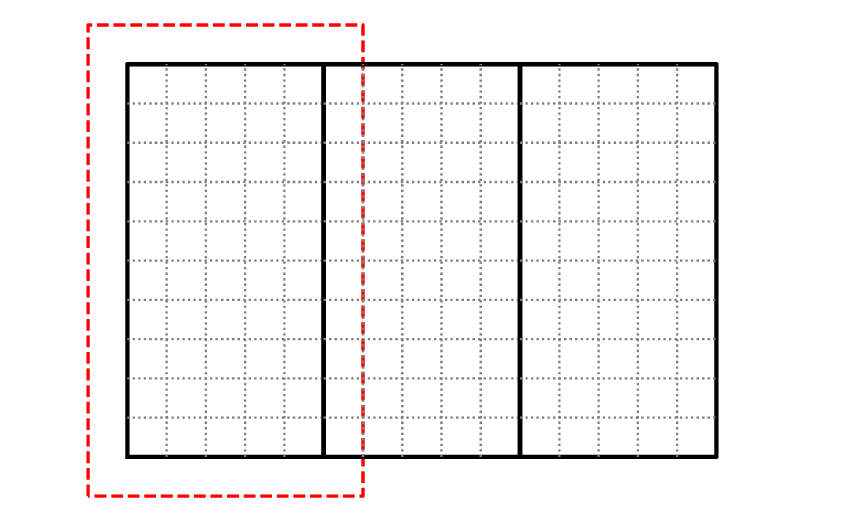
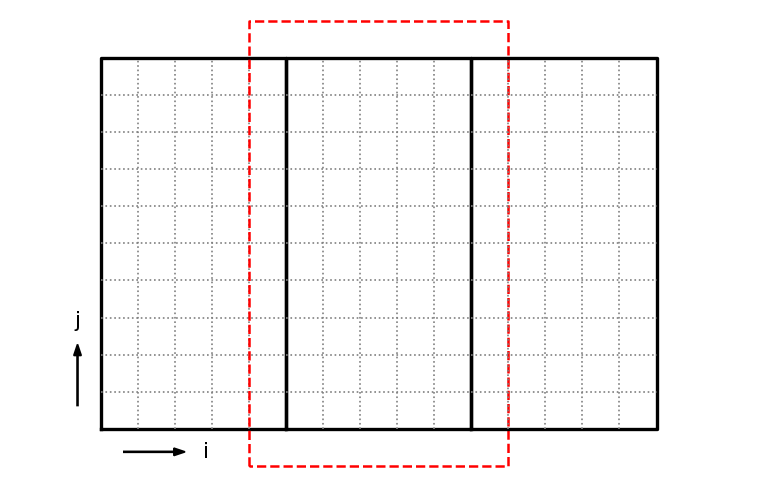
better figure

Changed region(s): [[0.0911, 0.0308, 0.8811, 0.9856]]

diff --git a/docs/source/domain-oned.py b/docs/source/domain-oned.py
@@ -1,0 +1,64 @@
+import matplotlib.pyplot as plt
+
+def draw_box(ax, ll, uu, nx, ny, gridColor="0.5", ng=0):
+
+    # draw the frame
+    ax.plot([ll[0], ll[0], uu[0], uu[0], ll[0]],
+            [ll[1], uu[1], uu[1], ll[1], ll[1]], color="k", lw=2)
+
+    # draw the x grid lines
+    dx = (uu[0] - ll[0])/nx
+    for n in range(1, nx):
+        ax.plot([ll[0]+n*dx, ll[0]+n*dx],
+                [ll[1], uu[1]], color=gridColor, ls=":", lw=1)
+
+    # draw the y grid lines
+    dy = (uu[1] - ll[1])/ny
+    for n in range(1, ny):
+        ax.plot([ll[0], uu[0]],
+                [ll[1]+n*dy, ll[1]+n*dy], color=gridColor, ls=":", lw=1)
+
+    # ghostcells?
+    if ng > 0:
+        xmin = ll[0]-ng*dx
+        xmax = uu[0]+ng*dx
+        ymin = ll[1]-ng*dy
+        ymax = uu[1]+ng*dy
+        ax.plot([xmin, xmin, xmax, xmax, xmin],
+                [ymin, ymax, ymax, ymin, ymin],
+                ls="--", color="r")
+
+
+
+fig, ax = plt.subplots()
+
+draw_box(ax, [0., 0.], [1., 2.], 5, 10)
+draw_box(ax, [1., 0.], [2., 2.], 5, 10, ng=1)
+draw_box(ax, [2., 0.], [3., 2.], 5, 10)
+
+ax.set_xlim(-0.25, 3.25)
+ax.set_ylim(-0.25, 2.25)
+
+ax.set_aspect("equal", "datalim")
+ax.set_axis_off()
+
+ax.arrow(0.125, -0.125, 0.33, 0,
+         shape="full", head_width=0.04, head_length=0.06,
+         lw=1, width=0.005,
+         facecolor="k",
+         length_includes_head=True, zorder=100)
+ax.text(0.55, -0.125, "i", verticalalignment="center")
+
+
+ax.arrow(-0.125, 0.125, 0, 0.33,
+         shape="full", head_width=0.04, head_length=0.06,
+         lw=1, width=0.005,
+         facecolor="k",
+         length_includes_head=True, zorder=100)
+ax.text(-0.125, 0.55, "j", horizontalalignment="center")
+
+
+fig.set_size_inches(6.5, 4.25)
+fig.tight_layout()
+
+fig.savefig("domain-oned.png", bbox_inches="tight")

diff --git a/examples/parallel/mpi/advect/grid.H b/examples/parallel/mpi/advect/grid.H
@@ -5,7 +5,6 @@
 #include <cmath>
 #include <format>
 #include <iostream>
-#include <print>
 
 #include "array.H"
 

diff --git a/examples/parallel/mpi/advect/advection.cpp b/examples/parallel/mpi/advect/advection.cpp
@@ -1,4 +1,5 @@
 #include <iostream>
+#include <print>
 
 #include <mpi.h>
 
